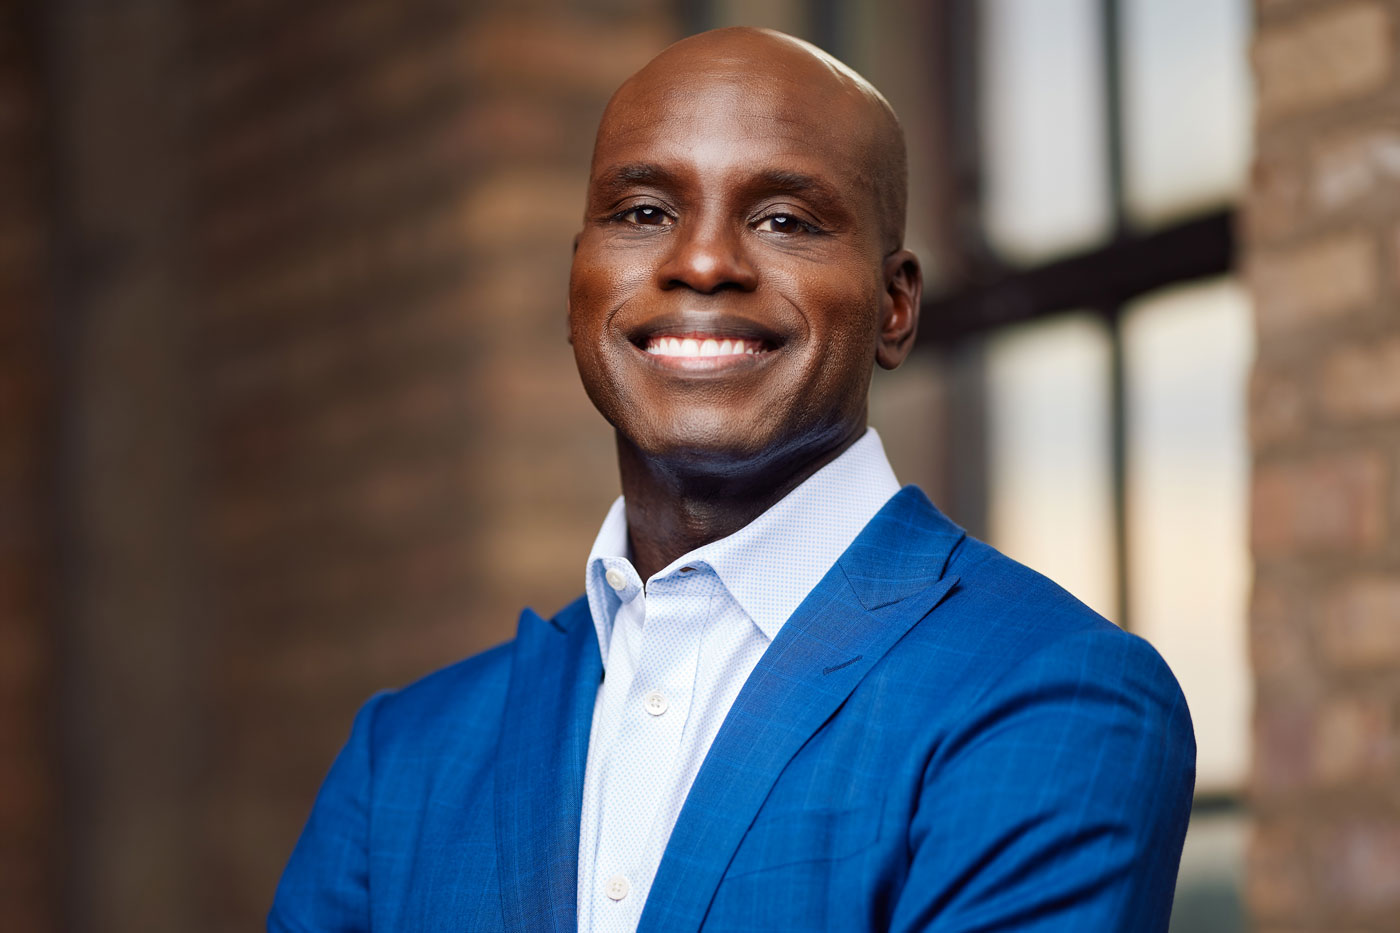
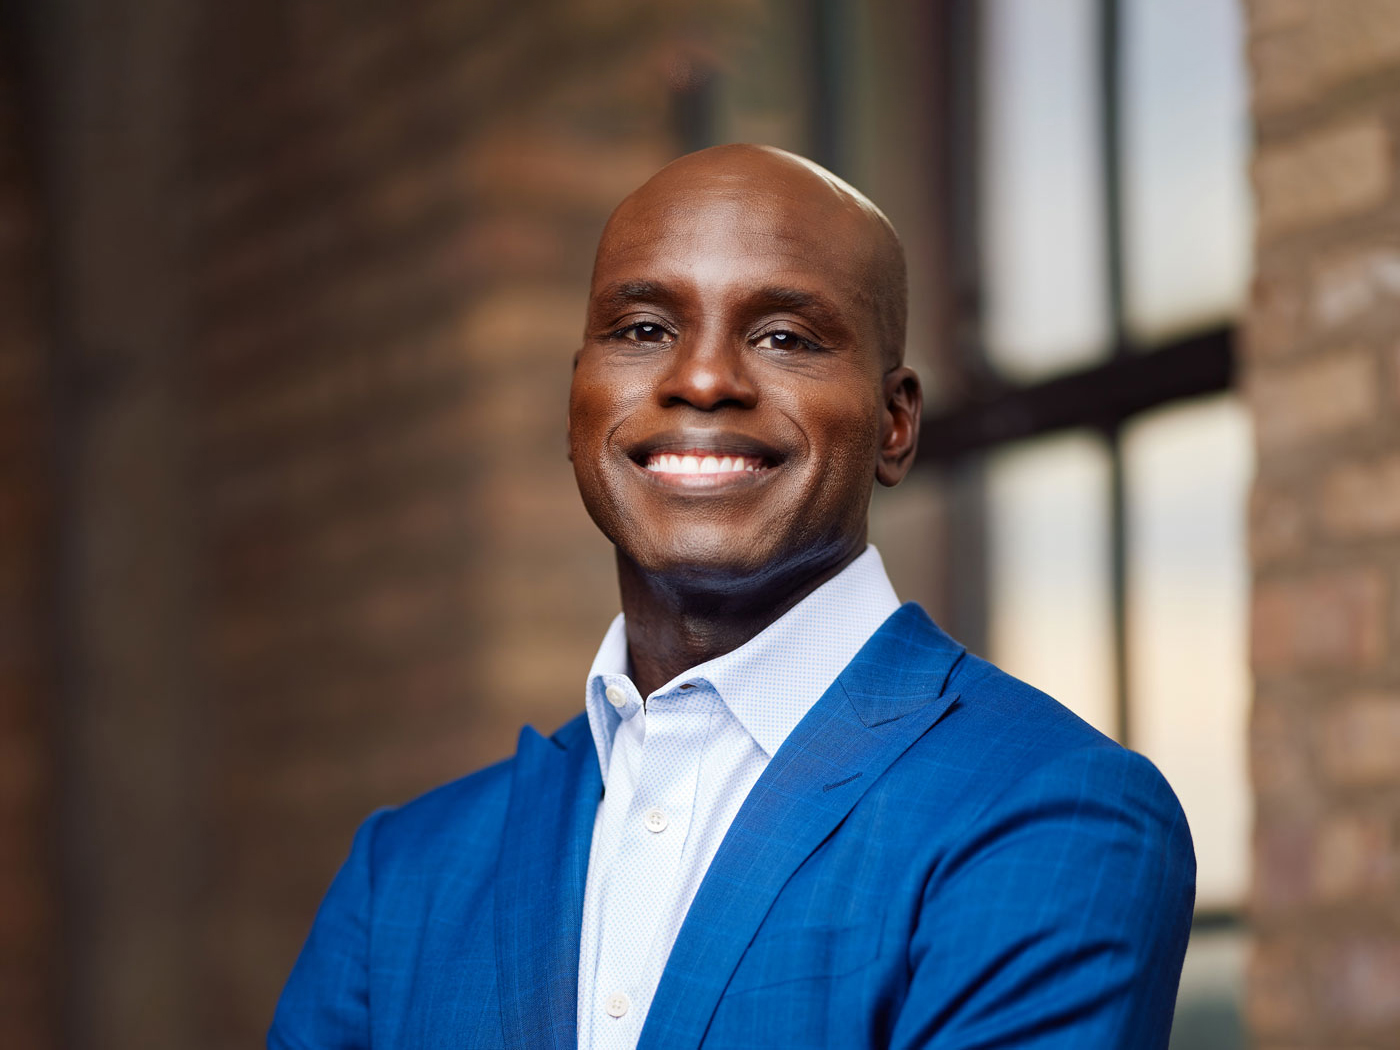
image update

diff --git a/Photography.html b/Photography.html
@@ -234,10 +234,10 @@
                             <!-- Column -->
                             <div class="column col-lg-6 col-md-6 col-sm-12">
                                 <div class="image">
-                                    <img src="assets/images/resource/" alt="" />
+                                    <img src="assets/images/resource/27421_retouched_highres.jpg" alt="" />
                                     <div class="overlay-box">
                                         <div class="icon-box">
-                                            <a href="assets/images/resource/services-15.jpg" class="link" data-fancybox="services" data-caption=""><span class="icon icon-size-fullscreen"></span></a>
+                                            <a href="assets/images/resource/27421_retouched_highres.jpg" class="link" data-fancybox="services" data-caption=""><span class="icon icon-size-fullscreen"></span></a>
                                         </div>
                                     </div>
                                 </div>
